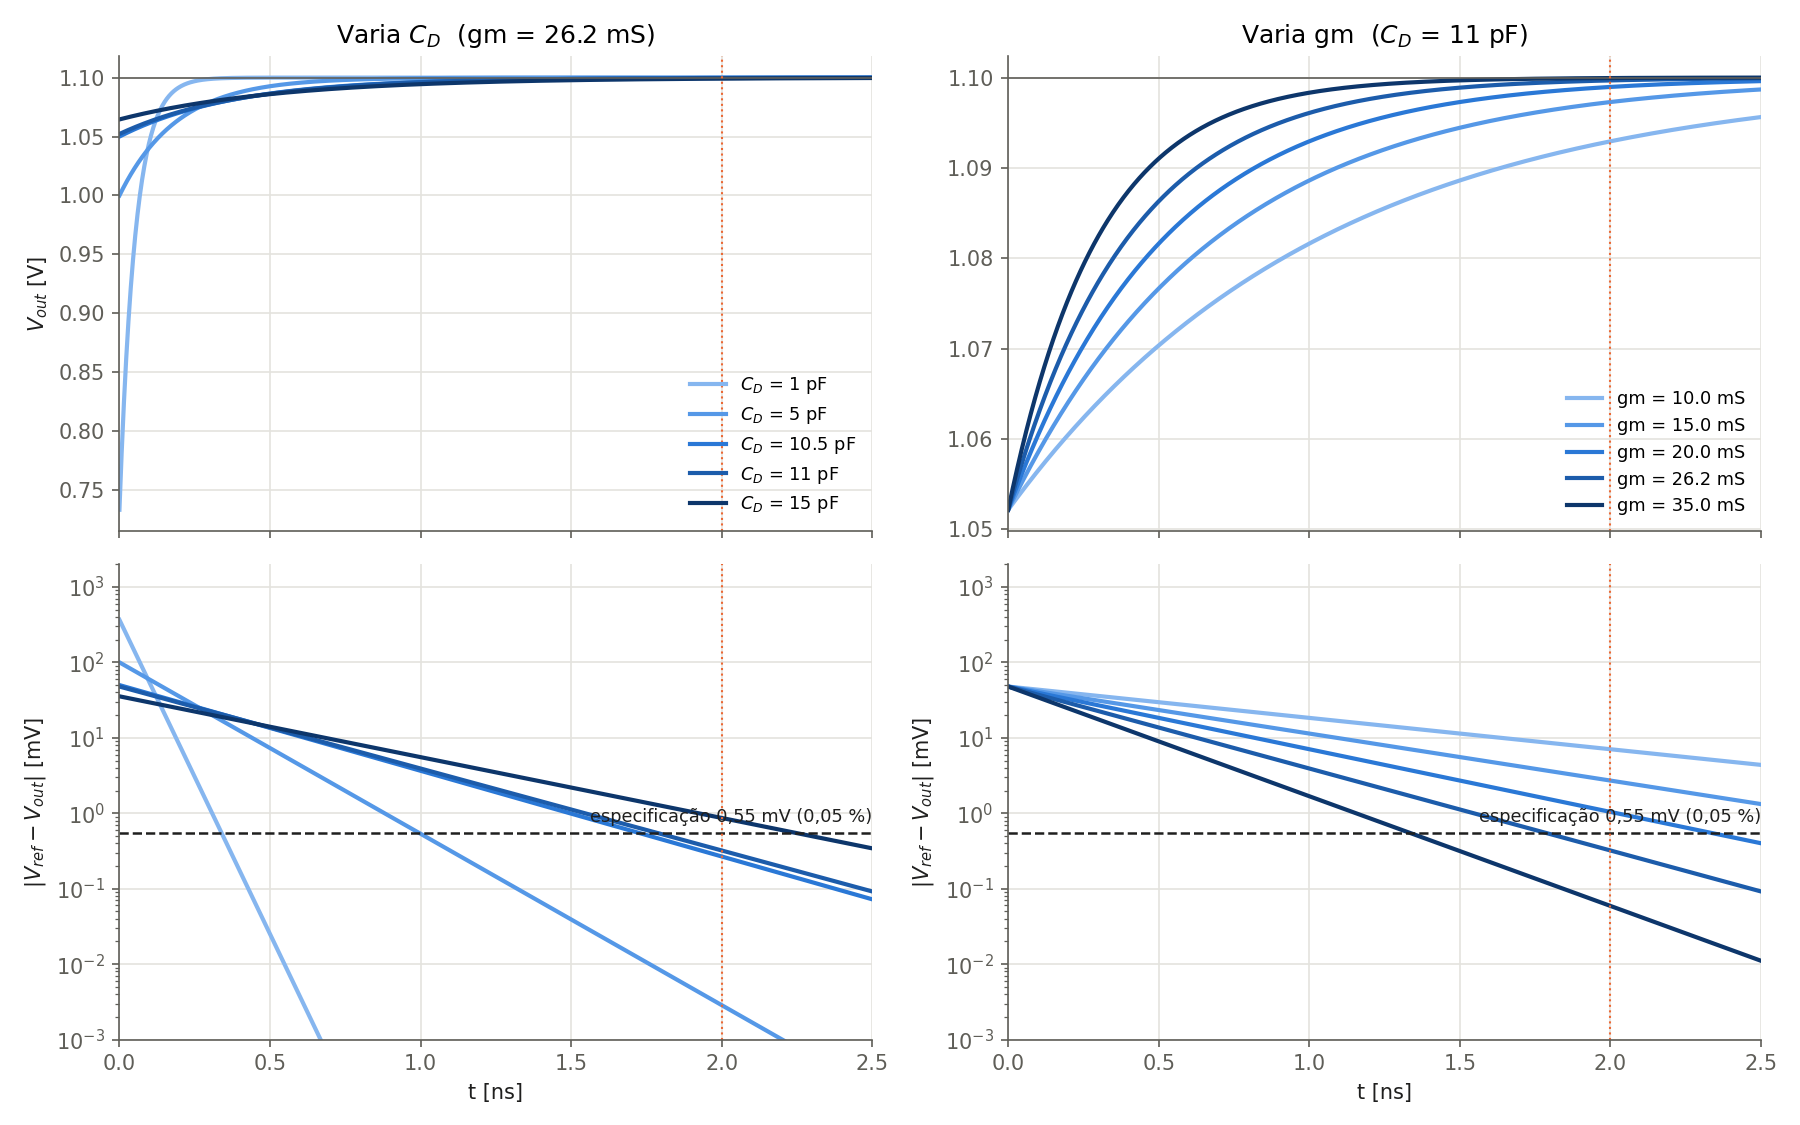
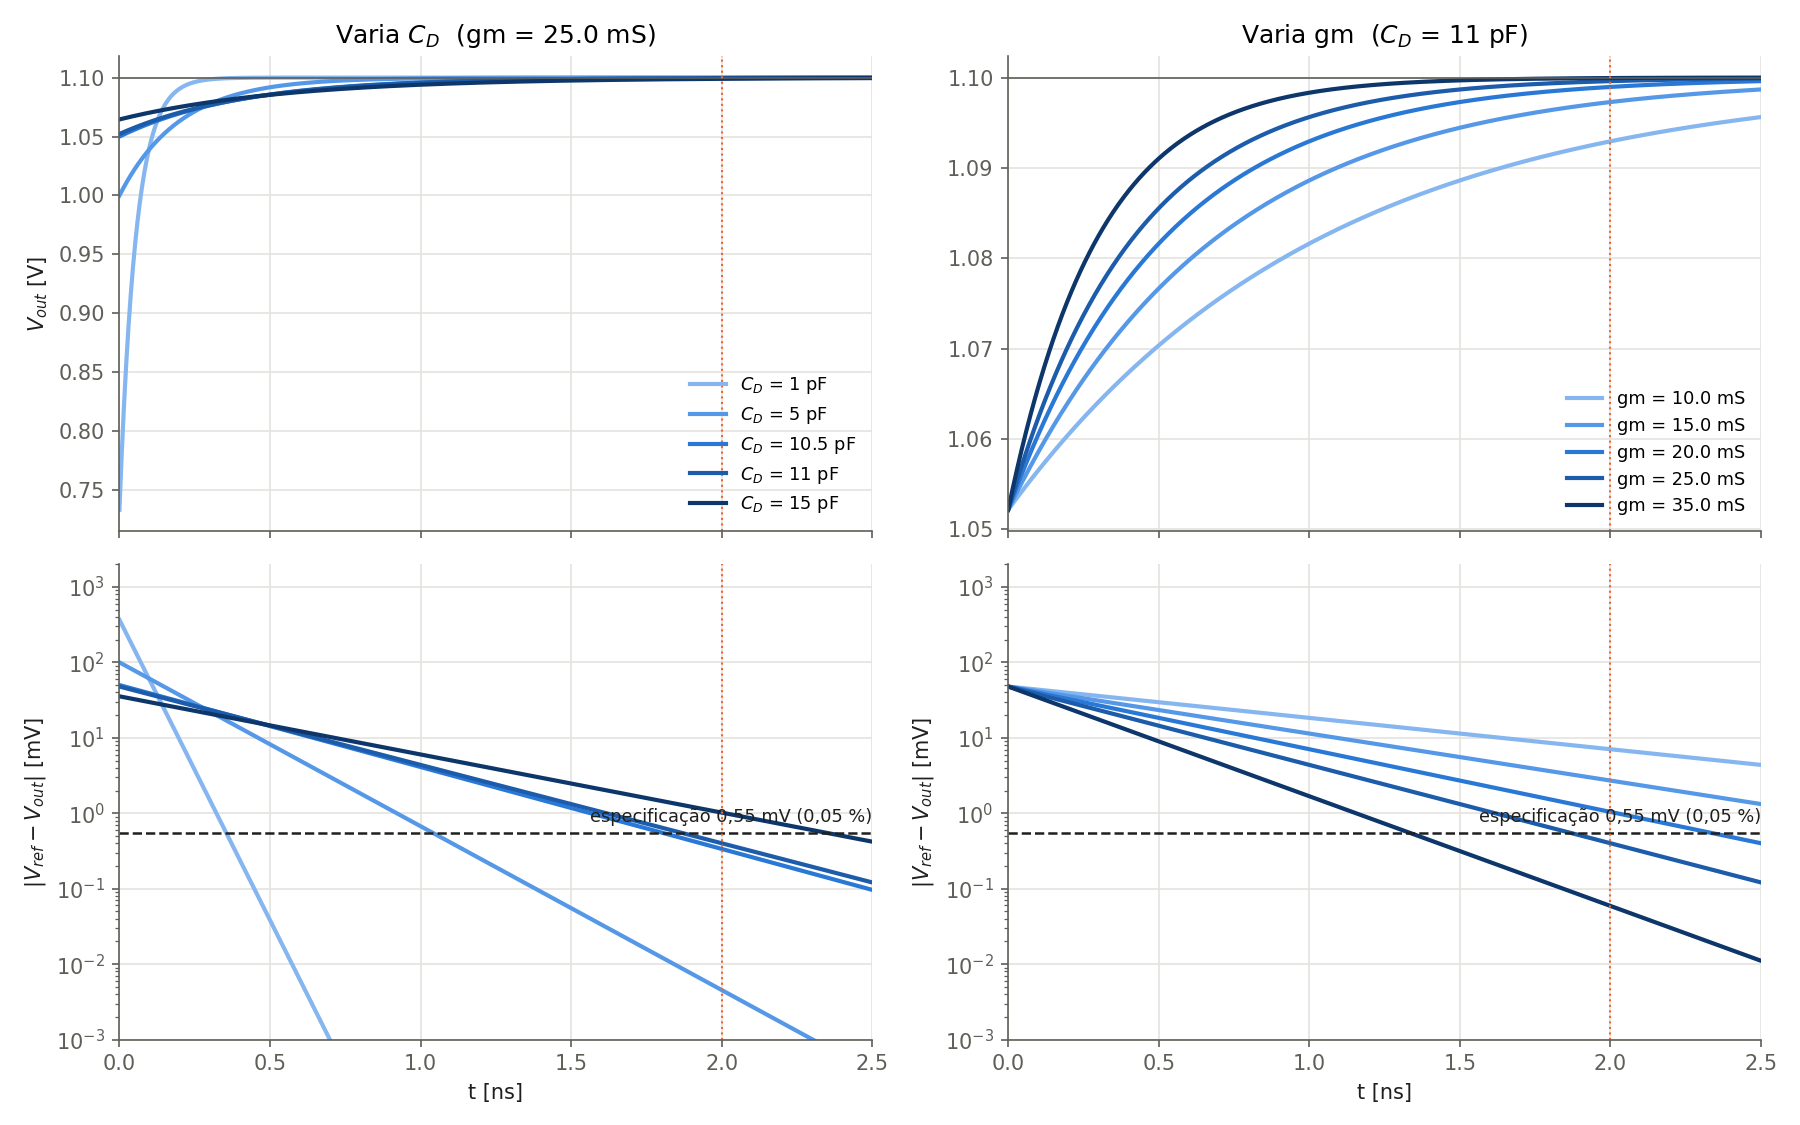
Gráficos Certos CIA

diff --git a/CIA/LAB1/dimensionamento.py b/CIA/LAB1/dimensionamento.py
@@ -41,7 +41,8 @@ for CD in np.sort(CD_vals):
           f"   {gm_min*1e3:6.2f}    | {gm_min/gm_ID*1e6:6.0f}")
 
 # ponto escolhido
-gm_sel = margem*gm_min_de(CD_sel)
+gm_sel = 25e-3     # em vez de  gm_sel = margem*gm_min_de(CD_sel)
+# margem*gm_min_de(CD_sel)
 print(f"\nEscolha: CD = {CD_sel*1e12:.2f} pF, gm = {gm_sel*1e3:.2f} mS "
       f"(mínimo {gm_min_de(CD_sel)*1e3:.2f} mS + {100*(margem-1):.0f} %)")
 print(f"  queda inicial = {queda(CD_sel)*1e3:.1f} mV  (máx {dV_max*1e3:.0f} mV)")
